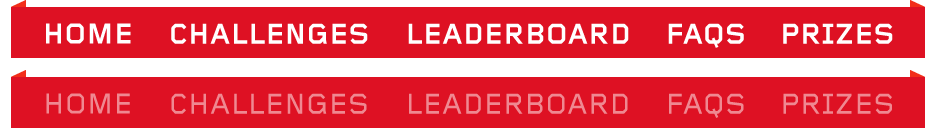
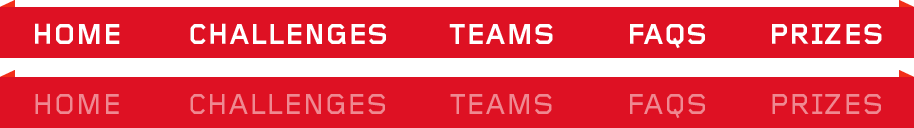
updated nav, displaying mobile signups on teams page

diff --git a/sites/all/micro/hunt/hunt.css b/sites/all/micro/hunt/hunt.css
@@ -266,7 +266,7 @@ body div#page-wrapper #page label {
 #huntnav {
   position: absolute;
   top: -54px;
-  left: -26px;
+  left: -15px;
   width: 1000px;
 }
 
@@ -288,7 +288,7 @@ body div#page-wrapper #page label {
 }
 
 #huntnav a.challenges {
-  width: 225px;
+  width: 257px;
   background-position: -153px -70px;
 }
 
@@ -297,30 +297,30 @@ body div#page-wrapper #page label {
 }
 
 #huntnav a.leaderboard {
-  width: 265px;
-  background-position: -379px -70px;
+  width: 200px;
+  background-position: -402px -70px;
 }
 
 #huntnav a.leaderboard.active, #huntnav a.leaderboard:hover {
-    background-position: -379px 0;
+    background-position: -402px 0;
 }
 
 #huntnav a.faqs {
   width: 120px;
-  background-position: -645px -70px;
+  background-position: -614px -70px;
 }
 
 #huntnav a.faqs.active, #huntnav a.faqs:hover {
-    background-position: -645px 0;
+    background-position: -614px 0;
 }
 
 #huntnav a.prizes {
-  width: 161px;
-  background-position: -766px -70px;
+  width: 190px;
+  background-position: -733px -70px;
 }
 
 #huntnav a.prizes.active, #huntnav a.prizes:hover {
-  background-position: -766px 0;
+  background-position: -733px 0;
 }
 
 #home-main {

diff --git a/sites/all/themes/dosomething/templates/page-scavenger-hunt.tpl.php b/sites/all/themes/dosomething/templates/page-scavenger-hunt.tpl.php
@@ -183,7 +183,7 @@
         <div id="huntnav">
         <a class="home <?if ($last_path_item=='scavenger-hunt') { print 'active';}?>" href="/scavenger-hunt#">Scavenger Hunt Home</a>
         <a class="challenges <?if ($last_path_item=='challenges' || $last_path_item=='report-back') { print 'active';}?>" href="/scavenger-hunt/challenges#">Challenges</a>
-        <a class="leaderboard <? if ($last_path_item=='leaderboard') { print 'active';}?>" href="/scavenger-hunt/leaderboard#">Leaderboard</a>
+        <a class="leaderboard <? if ($last_path_item=='leaderboard') { print 'active';}?>" href="/scavenger-hunt/leaderboard#">Teams</a>
         <a class="faqs <?if ($last_path_item=='faq') { print 'active';}?>" href="/scavenger-hunt/faq#">Frequently Asked Questions</a>
         <a class="prizes <?if ($last_path_item=='prizes') { print 'active';}?>" href="/scavenger-hunt/prizes#">Prizes</a>
         </div>
